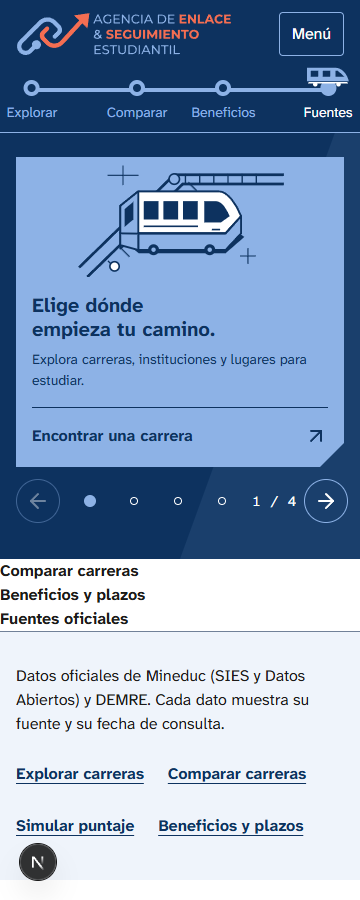
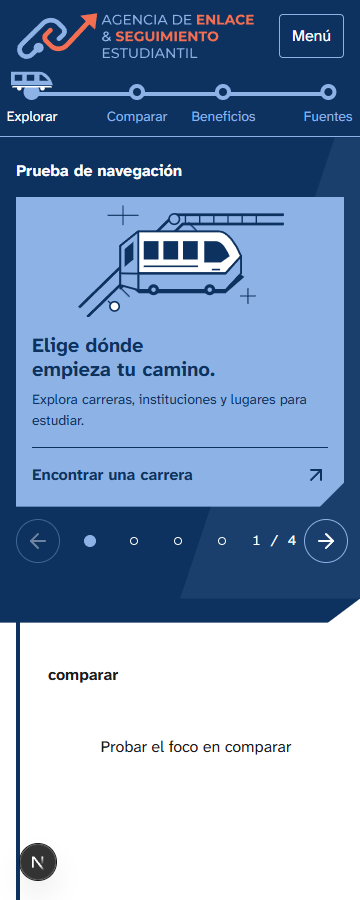
fix: verifica navegación y corrige menú y anclas del portal

Changed region(s): [[0.0, 0.0, 1.0, 1.0], [0.4278, 0.9022, 0.8556, 0.9333], [0.6417, 0.3733, 0.8556, 0.4044]]

diff --git a/app/(portal)/Viaje.tsx b/app/(portal)/Viaje.tsx
@@ -14,30 +14,53 @@ const ESTACIONES = [
   { id: "fuentes", nombre: "Fuentes" },
 ] as const;
 
+const ENLACES = [
+  { href: "/carreras", texto: "Carreras" },
+  { href: "/comparador", texto: "Comparador" },
+  { href: "/beneficios", texto: "Beneficios y plazos" },
+] as const;
+
 export function NavegacionPortal({ actual }: { actual?: string }) {
+  const menu = useRef<HTMLDetailsElement>(null);
+  useEffect(() => {
+    function cerrarFuera(evento: PointerEvent) {
+      if (menu.current && !menu.current.contains(evento.target as Node)) menu.current.open = false;
+    }
+    document.addEventListener("pointerdown", cerrarFuera);
+    return () => document.removeEventListener("pointerdown", cerrarFuera);
+  }, []);
+
   return (
     <div className={estilos.navegacion}>
       <Link href="/" aria-label="Agencia de Enlace y Seguimiento Estudiantil, inicio"><Image src="/marca/logo-horizontal-oscuro.svg" alt="Agencia de Enlace & Seguimiento Estudiantil" width={1547} height={314} priority className={estilos.logo} /></Link>
       <nav className={estilos.menuEscritorio} aria-label="Navegación principal">
-        <Link href="/carreras" aria-current={actual === "/carreras" ? "page" : undefined}>Carreras</Link>
-        <Link href="/comparador" aria-current={actual === "/comparador" ? "page" : undefined}>Comparador</Link>
-        <Link href="/beneficios" aria-current={actual === "/beneficios" ? "page" : undefined}>Beneficios y plazos</Link>
+        {ENLACES.map(({ href, texto }) => <Link key={href} href={href} aria-current={actual === href ? "page" : undefined}>{texto}</Link>)}
       </nav>
-      <details key={actual ?? "/"} className={estilos.menuMovil}><summary>Menú</summary><nav aria-label="Navegación móvil">
-        <Link href="/carreras" aria-current={actual === "/carreras" ? "page" : undefined}>Carreras</Link>
-        <Link href="/comparador" aria-current={actual === "/comparador" ? "page" : undefined}>Comparador</Link>
-        <Link href="/beneficios" aria-current={actual === "/beneficios" ? "page" : undefined}>Beneficios y plazos</Link>
+      <details key={actual ?? "/"} ref={menu} className={estilos.menuMovil} onKeyDown={(evento) => {
+        if (evento.key === "Escape") {
+          evento.preventDefault();
+          evento.currentTarget.open = false;
+          evento.currentTarget.querySelector("summary")?.focus();
+        }
+      }} onBlur={(evento) => {
+        if (!evento.currentTarget.contains(evento.relatedTarget)) evento.currentTarget.open = false;
+      }}><summary>Menú</summary><nav aria-label="Navegación móvil">
+        {ENLACES.map(({ href, texto }) => <Link key={href} href={href} aria-current={actual === href ? "page" : undefined}>{texto}</Link>)}
       </nav></details>
     </div>
   );
 }
 
 export function CabeceraViaje() {
+  const cabecera = useRef<HTMLElement>(null);
   const via = useRef<HTMLDivElement>(null);
   const tren = useRef<HTMLDivElement>(null);
   const [actual, setActual] = useState(0);
 
   useEffect(() => {
+    const encabezado = cabecera.current;
+    const contenedor = encabezado?.parentElement;
+    if (!encabezado || !contenedor) return;
     const reduccion = matchMedia("(prefers-reduced-motion: reduce)");
     const secciones = ESTACIONES.map(({ id }) => document.getElementById(id));
     let posiciones: number[] = [];
@@ -46,6 +69,7 @@ export function CabeceraViaje() {
 
     function medir() {
       if (!via.current) return;
+      contenedor!.style.setProperty("--alto-cabecera-portal", `${encabezado!.getBoundingClientRect().height}px`);
       const limite = Math.max(0, document.documentElement.scrollHeight - innerHeight);
       posiciones = secciones.map(seccion => seccion ? Math.min(limite, Math.max(0,
         seccion.getBoundingClientRect().top + scrollY - parseFloat(getComputedStyle(seccion).scrollMarginBlockStart),
@@ -77,11 +101,18 @@ export function CabeceraViaje() {
     }
 
     medir();
+    encabezado.dataset.medida = "";
     programar();
+    const observador = new ResizeObserver(redimensionar);
+    observador.observe(encabezado);
+    observador.observe(contenedor);
     addEventListener("scroll", programar, { passive: true });
     addEventListener("resize", redimensionar);
     reduccion.addEventListener("change", programar);
     return () => {
+      observador.disconnect();
+      delete encabezado.dataset.medida;
+      contenedor.style.removeProperty("--alto-cabecera-portal");
       cancelAnimationFrame(cuadro);
       removeEventListener("scroll", programar);
       removeEventListener("resize", redimensionar);
@@ -90,7 +121,7 @@ export function CabeceraViaje() {
   }, []);
 
   return (
-    <header className={estilos.cabecera}>
+    <header ref={cabecera} className={estilos.cabecera}>
       <NavegacionPortal />
       <nav className={estilos.recorrido} aria-label="Estaciones de esta página">
         <div className={estilos.via} ref={via}>
@@ -111,12 +142,27 @@ const DIAPOSITIVAS = [
 
 export function Carrusel() {
   const pista = useRef<HTMLDivElement>(null);
+  const cuadroScroll = useRef(0);
   const [actual, setActual] = useState(0);
   const [mejorado, setMejorado] = useState(false);
   useEffect(() => {
     const cuadro = requestAnimationFrame(() => setMejorado(true));
-    return () => cancelAnimationFrame(cuadro);
+    return () => {
+      cancelAnimationFrame(cuadro);
+      cancelAnimationFrame(cuadroScroll.current);
+    };
   }, []);
+
+  function actualizarPorScroll() {
+    if (cuadroScroll.current) return;
+    cuadroScroll.current = requestAnimationFrame(() => {
+      cuadroScroll.current = 0;
+      const elemento = pista.current;
+      if (!elemento?.clientWidth) return;
+      const indice = Math.max(0, Math.min(DIAPOSITIVAS.length - 1, Math.round(elemento.scrollLeft / elemento.clientWidth)));
+      setActual(anterior => anterior === indice ? anterior : indice);
+    });
+  }
 
   function ir(indice: number) {
     const destino = Math.max(0, Math.min(DIAPOSITIVAS.length - 1, indice));
@@ -133,7 +179,7 @@ export function Carrusel() {
 
   return (
     <div className={estilos.carrusel} role="region" aria-roledescription="carrusel" aria-label="Encuentra tu próximo paso" onKeyDown={teclado}>
-      <div className={estilos.pista} ref={pista} tabIndex={0} aria-label="Diapositivas. Usa las flechas para avanzar o retroceder." onScroll={() => { if (pista.current?.clientWidth) setActual(Math.max(0, Math.min(DIAPOSITIVAS.length - 1, Math.round(pista.current.scrollLeft / pista.current.clientWidth)))); }}>
+      <div className={estilos.pista} ref={pista} tabIndex={0} aria-label="Diapositivas. Usa las flechas para avanzar o retroceder." onScroll={actualizarPorScroll}>
         {DIAPOSITIVAS.map(({ titulo, texto, accion, href, clase, Arte }, indice) => (
           <div key={href} role="group" aria-roledescription="diapositiva" aria-label={`${indice + 1} de ${DIAPOSITIVAS.length}`} aria-hidden={mejorado && actual !== indice ? true : undefined} className={`${estilos.lamina} ${estilos[clase]}`}>
             <div className={estilos.arteLamina}><Arte /></div>

diff --git a/tests/navegacion/portal.spec.ts b/tests/navegacion/portal.spec.ts
@@ -1,0 +1,118 @@
+import { expect, test } from "@playwright/test";
+import AxeBuilder from "@axe-core/playwright";
+import { readFileSync } from "node:fs";
+
+test.use({ viewport: { width: 360, height: 900 }, reducedMotion: "reduce" });
+test.beforeEach(async ({ page }) => {
+  await page.goto("/componentes/navegacion");
+  await expect(page.locator("header[data-medida]")).toBeVisible();
+});
+
+test("el menú cierra con Escape, clic fuera y salida del foco", async ({ page }) => {
+  const menu = page.locator("details");
+  const resumen = page.getByText("Menú", { exact: true });
+  await resumen.click();
+  const enlaces = page.getByRole("navigation", { name: "Navegación móvil" }).getByRole("link");
+  await expect(enlaces).toHaveText(["Carreras", "Comparador", "Beneficios y plazos"]);
+  await enlaces.first().focus();
+  await enlaces.first().press("Escape");
+  await expect(menu).not.toHaveAttribute("open");
+  await expect(resumen).toBeFocused();
+  await resumen.click();
+  await page.getByRole("button", { name: "Ir a diapositiva 2", exact: true }).click();
+  await expect(menu).not.toHaveAttribute("open");
+  await resumen.click();
+  await enlaces.last().focus();
+  await enlaces.last().press("Tab");
+  await expect(menu).not.toHaveAttribute("open");
+});
+
+test("el carrusel responde al teclado y al desplazamiento nativo", async ({ page }) => {
+  const carrusel = page.getByRole("region", { name: "Encuentra tu próximo paso" });
+  const pista = carrusel.getByLabel("Diapositivas. Usa las flechas para avanzar o retroceder.", { exact: true });
+  const indicador = (numero: number) => carrusel.getByRole("button", { name: `Ir a diapositiva ${numero}` });
+  await pista.focus();
+  await pista.press("ArrowRight");
+  await expect(indicador(2)).toHaveAttribute("aria-pressed", "true");
+  await pista.press("End");
+  await expect(indicador(4)).toHaveAttribute("aria-pressed", "true");
+  await pista.press("ArrowLeft");
+  await expect(indicador(3)).toHaveAttribute("aria-pressed", "true");
+  await pista.press("Home");
+  await expect(indicador(1)).toHaveAttribute("aria-pressed", "true");
+  await pista.evaluate(elemento => {
+    elemento.scrollLeft = elemento.clientWidth * 2;
+    for (let i = 0; i < 10; i++) elemento.dispatchEvent(new Event("scroll"));
+  });
+  await expect(indicador(3)).toHaveAttribute("aria-pressed", "true");
+  await expect(carrusel.getByRole("group", { name: "3 de 4" })).toBeVisible();
+  await expect(carrusel.getByRole("status")).toContainText("Diapositiva 3 de 4");
+});
+
+test("el tren sigue las anclas con la altura real del encabezado y texto ampliado", async ({ page }) => {
+  const cabecera = page.locator("header[data-medida]");
+  const tren = page.locator("[data-tren]");
+  const inicio = await tren.getAttribute("style");
+  const destino = page.getByRole("navigation", { name: "Estaciones de esta página" }).getByRole("link", { name: "Beneficios", exact: true });
+  for (const ancho of [360, 768, 1280]) {
+    await page.setViewportSize({ width: ancho, height: 900 });
+    for (const fuente of ["100%", "200%"]) {
+      await page.locator("html").evaluate((elemento, valor) => { elemento.style.fontSize = valor; }, fuente);
+      await expect.poll(async () => page.locator("main").evaluate(elemento => {
+        const cabecera = document.querySelector("header")!;
+        return Math.abs(parseFloat(getComputedStyle(elemento.parentElement!).getPropertyValue("--alto-cabecera-portal")) - cabecera.getBoundingClientRect().height);
+      })).toBeLessThan(1);
+      await destino.click();
+      await expect(destino).toHaveAttribute("aria-current", "location");
+      await expect(tren).not.toHaveAttribute("style", inicio!);
+      const seccion = await page.locator("#beneficios").boundingBox();
+      const caja = await cabecera.boundingBox();
+      expect(seccion!.y).toBeGreaterThanOrEqual(caja!.y + caja!.height);
+      expect(await page.evaluate(() => document.documentElement.scrollWidth <= innerWidth)).toBe(true);
+    }
+  }
+});
+
+function contraste(a: number[], b: number[]) {
+  function luminancia(rgb: number[]) {
+    const [r, g, azul] = rgb.map(valor => {
+      const canal = valor / 255;
+      return canal <= 0.04045 ? canal / 12.92 : ((canal + 0.055) / 1.055) ** 2.4;
+    });
+    return r * 0.2126 + g * 0.7152 + azul * 0.0722;
+  }
+  const valores = [luminancia(a), luminancia(b)];
+  return (Math.max(...valores) + 0.05) / (Math.min(...valores) + 0.05);
+}
+
+for (const tema of ["light", "dark"] as const) {
+  test(`logo, contraste y captura de 360 px en tema ${tema}`, async ({ page }, info) => {
+    await page.emulateMedia({ colorScheme: tema });
+    const logo = page.getByRole("img", { name: "Agencia de Enlace & Seguimiento Estudiantil", exact: true });
+    await expect(logo).toBeVisible();
+    expect(await logo.evaluate((imagen: HTMLImageElement) => imagen.complete && imagen.naturalWidth > 0)).toBe(true);
+    const fondo = await page.locator("header").evaluate(elemento => getComputedStyle(elemento).backgroundColor.match(/\d+/g)!.map(Number));
+    const svg = readFileSync("public/marca/logo-horizontal-oscuro.svg", "utf8");
+    const azul = svg.match(/\.a\{fill:(#[\da-f]{6})/i)![1];
+    const coral = svg.match(/\.c\{fill:(#[\da-f]{6})/i)![1];
+    const rgb = (hex: string) => hex.slice(1).match(/../g)!.map(canal => parseInt(canal, 16));
+    expect(contraste(rgb(azul), fondo)).toBeGreaterThanOrEqual(4.5);
+    expect(contraste(rgb(coral), fondo)).toBeGreaterThanOrEqual(3);
+    const informe = await new AxeBuilder({ page }).withTags(["wcag2a", "wcag2aa", "wcag21aa", "wcag22aa"]).analyze();
+    expect(informe.violations).toEqual([]);
+    const captura = info.outputPath(`navegacion-360-${tema}.png`);
+    await page.screenshot({ path: captura });
+    await info.attach(`navegacion-360-${tema}`, { path: captura, contentType: "image/png" });
+  });
+}
+
+test("el contenido y las anclas siguen disponibles sin JavaScript", async ({ browser }) => {
+  const contexto = await browser.newContext({ javaScriptEnabled: false, viewport: { width: 360, height: 900 } });
+  const pagina = await contexto.newPage();
+  await pagina.goto(test.info().project.use.baseURL! + "/componentes/navegacion");
+  await expect(pagina.locator('[aria-roledescription="diapositiva"]')).toHaveCount(4);
+  expect(await pagina.locator("header").evaluate(elemento => getComputedStyle(elemento).position)).toBe("static");
+  await pagina.getByRole("navigation", { name: "Estaciones de esta página" }).getByRole("link", { name: "Beneficios", exact: true }).click();
+  expect((await pagina.locator("#beneficios").boundingBox())!.y).toBeGreaterThanOrEqual(0);
+  await contexto.close();
+});

diff --git a/app/(portal)/Portada.module.css b/app/(portal)/Portada.module.css
@@ -1,8 +1,9 @@
 .portada { background: var(--color-fondo); overflow: clip; }
 .portada :where(a, button, summary, [tabindex="0"]):focus-visible { outline: var(--anillo-foco) solid var(--color-foco); outline-offset: var(--espacio-1); }
 .cabecera, .hero, .fuentes { --color-foco: var(--color-marca-texto); background: var(--color-marca-fondo); color: var(--color-marca-texto); }
-.cabecera { position: sticky; inset-block-start: 0; z-index: 5; border-block-end: var(--borde) solid var(--color-marca-linea); }
-.navegacion { max-inline-size: var(--ancho-sitio); margin-inline: auto; padding: var(--espacio-3) var(--espacio-4); display: flex; flex-wrap: wrap; align-items: center; justify-content: space-between; gap: var(--espacio-6); }
+.cabecera { position: static; inset-block-start: 0; z-index: 5; border-block-end: var(--borde) solid var(--color-marca-linea); }
+.cabecera[data-medida] { position: sticky; }
+.navegacion { max-inline-size: var(--ancho-sitio); margin-inline: auto; padding: var(--espacio-3) var(--espacio-4); display: flex; flex-wrap: nowrap; align-items: center; justify-content: space-between; gap: var(--espacio-6); }
 .navegacion > a { min-inline-size: 0; flex: 0 1 var(--ancho-logo); }
 .logo { inline-size: var(--ancho-logo); max-inline-size: 100%; block-size: auto; }
 .menuEscritorio { display: none; gap: var(--espacio-8); }
@@ -59,7 +60,7 @@
 .indicadores span { inline-size: var(--espacio-2); block-size: var(--espacio-2); border: var(--borde) solid var(--color-marca-texto); border-radius: 50%; }
 .indicadores [aria-pressed="true"] span { background: var(--color-marca-linea); border-color: var(--color-marca-linea); inline-size: var(--espacio-3); block-size: var(--espacio-3); }
 .cuentaCarrusel { font-family: var(--fuente-cifras); font-size: var(--texto-m1); white-space: nowrap; }
-.estacion, .hero { scroll-margin-block-start: calc(var(--espacio-24) + var(--espacio-16)); }
+.estacion, .hero { scroll-margin-block-start: calc(var(--alto-cabecera-portal, 0px) + var(--espacio-4)); }
 .estacion { position: relative; padding-block: var(--espacio-16); }
 .estacion::after { content: ""; position: absolute; inset-block: 0; inset-inline-start: max(var(--espacio-4),calc((100% - var(--ancho-sitio)) / 2 + var(--espacio-4))); inline-size: var(--borde-linea); background: var(--color-marca-fondo); pointer-events: none; }
 .fuentes::after { background: var(--color-marca-linea); }
@@ -126,6 +127,7 @@
   .textoLamina a:hover svg, .listaFuentes a:hover svg { transform: translate(var(--espacio-1),calc(var(--espacio-1) * -1)); }
 }
 @media (min-width: 48rem) {
+  .navegacion { flex-wrap: wrap; }
   .navegacion, .heroInterior, .seccionInterior, .fuentesInterior, .bajar { padding-inline: var(--espacio-8); }
   .seccionInterior, .fuentesInterior { padding-inline-start: var(--espacio-12); }
   .menuEscritorio { display: flex; }

diff --git a/app/(portal)/componentes/navegacion/page.tsx b/app/(portal)/componentes/navegacion/page.tsx
@@ -1,0 +1,28 @@
+import { notFound } from "next/navigation";
+import { CabeceraViaje, Carrusel } from "../../Viaje";
+import estilos from "../../Portada.module.css";
+
+export default function PruebaNavegacion() {
+  if (process.env.NODE_ENV === "production") notFound();
+  return (
+    <div className={estilos.portada}>
+      <CabeceraViaje />
+      <main id="contenido" tabIndex={-1}>
+        <section id="explorar" className={estilos.hero}>
+          <div className={estilos.heroInterior}>
+            <h1>Prueba de navegación</h1>
+            <Carrusel />
+          </div>
+        </section>
+        {["comparar", "beneficios", "fuentes"].map(id => (
+          <section key={id} id={id} className={estilos.estacion} style={{ minBlockSize: "calc(var(--alto-arte) * 4)" }}>
+            <div className={estilos.seccionInterior}>
+              <h2>{id}</h2>
+              <button type="button">Probar el foco en {id}</button>
+            </div>
+          </section>
+        ))}
+      </main>
+    </div>
+  );
+}

diff --git a/tests/accesibilidad/accesibilidad.spec.ts b/tests/accesibilidad/accesibilidad.spec.ts
@@ -6,6 +6,11 @@ import { ETIQUETAS_WCAG, RUTAS } from "./rutas";
 const ESQUEMAS = ["light", "dark"] as const;
 const MAX_TABULACIONES = 120;
 
+test("la página interna de prueba de navegación devuelve 404 en producción", async ({ page }) => {
+  const respuesta = await page.goto("/componentes/navegacion");
+  expect(respuesta?.status()).toBe(404);
+});
+
 async function abrir(page: Page, ruta: string, esquema: (typeof ESQUEMAS)[number] = "light") {
   await page.emulateMedia({ colorScheme: esquema, reducedMotion: "reduce" });
   await page.goto(ruta);

diff --git a/playwright.navegacion.config.ts b/playwright.navegacion.config.ts
@@ -1,0 +1,16 @@
+import { defineConfig } from "@playwright/test";
+import accesibilidad from "./playwright.config";
+
+const puerto = process.env.PUERTO_NAVEGACION ?? "3231";
+
+export default defineConfig({
+  ...accesibilidad,
+  testDir: "./tests/navegacion",
+  use: { ...accesibilidad.use, baseURL: `http://localhost:${puerto}` },
+  webServer: {
+    command: `npm run dev -- --port ${puerto}`,
+    url: `http://localhost:${puerto}/componentes/navegacion`,
+    reuseExistingServer: false,
+    timeout: 120_000,
+  },
+});
